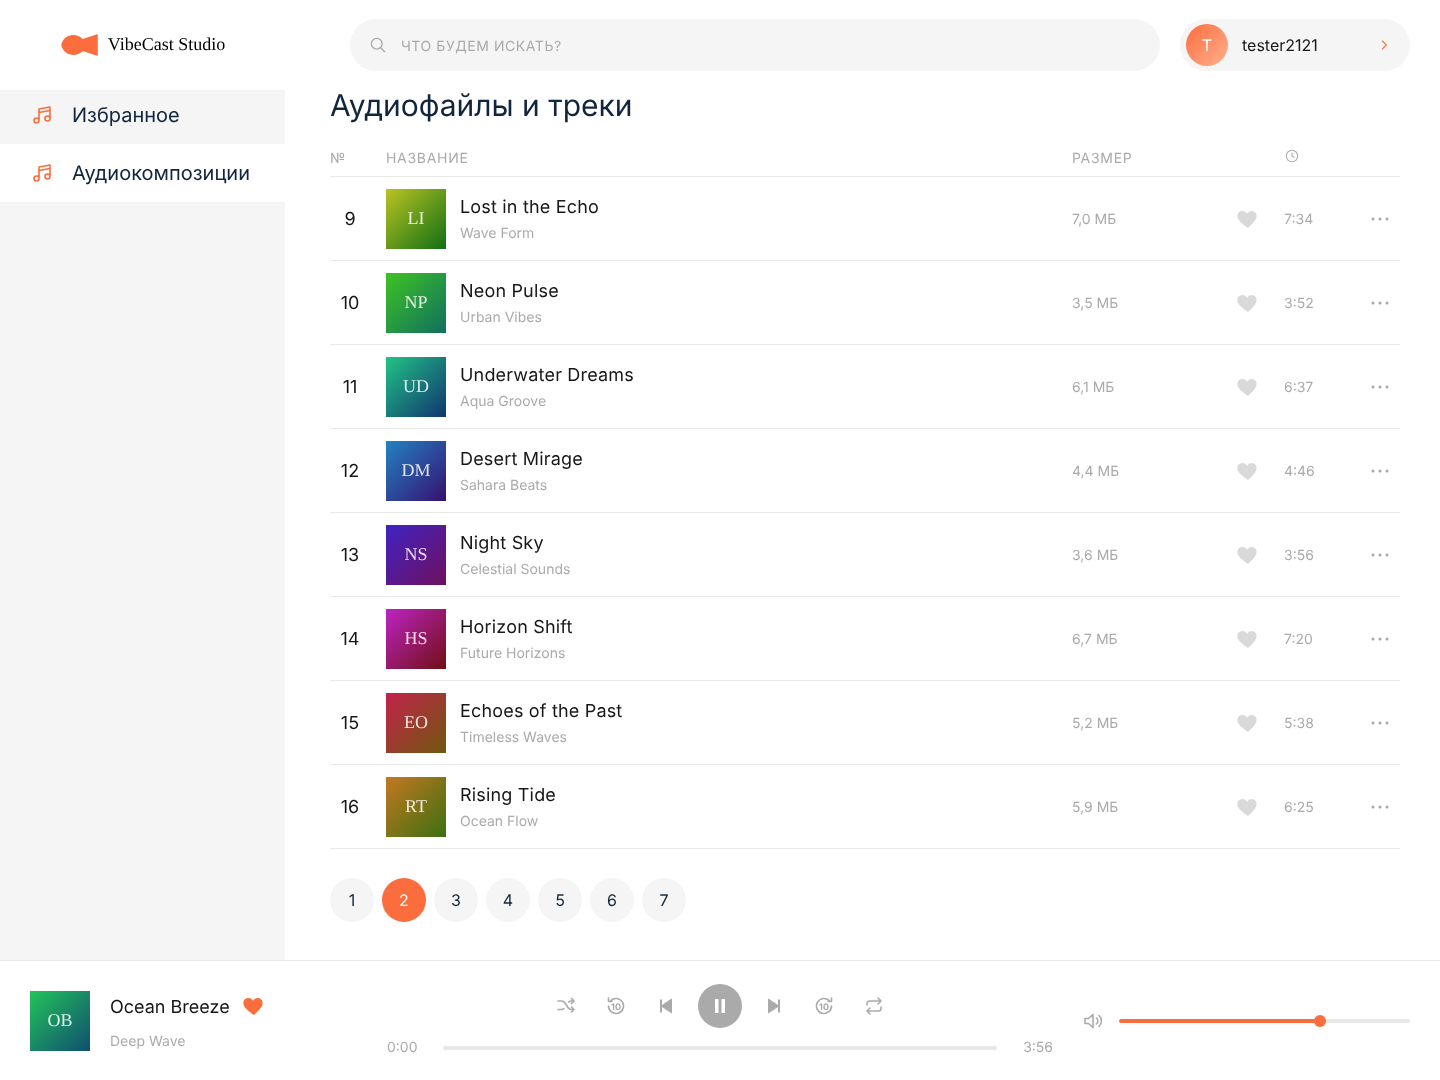
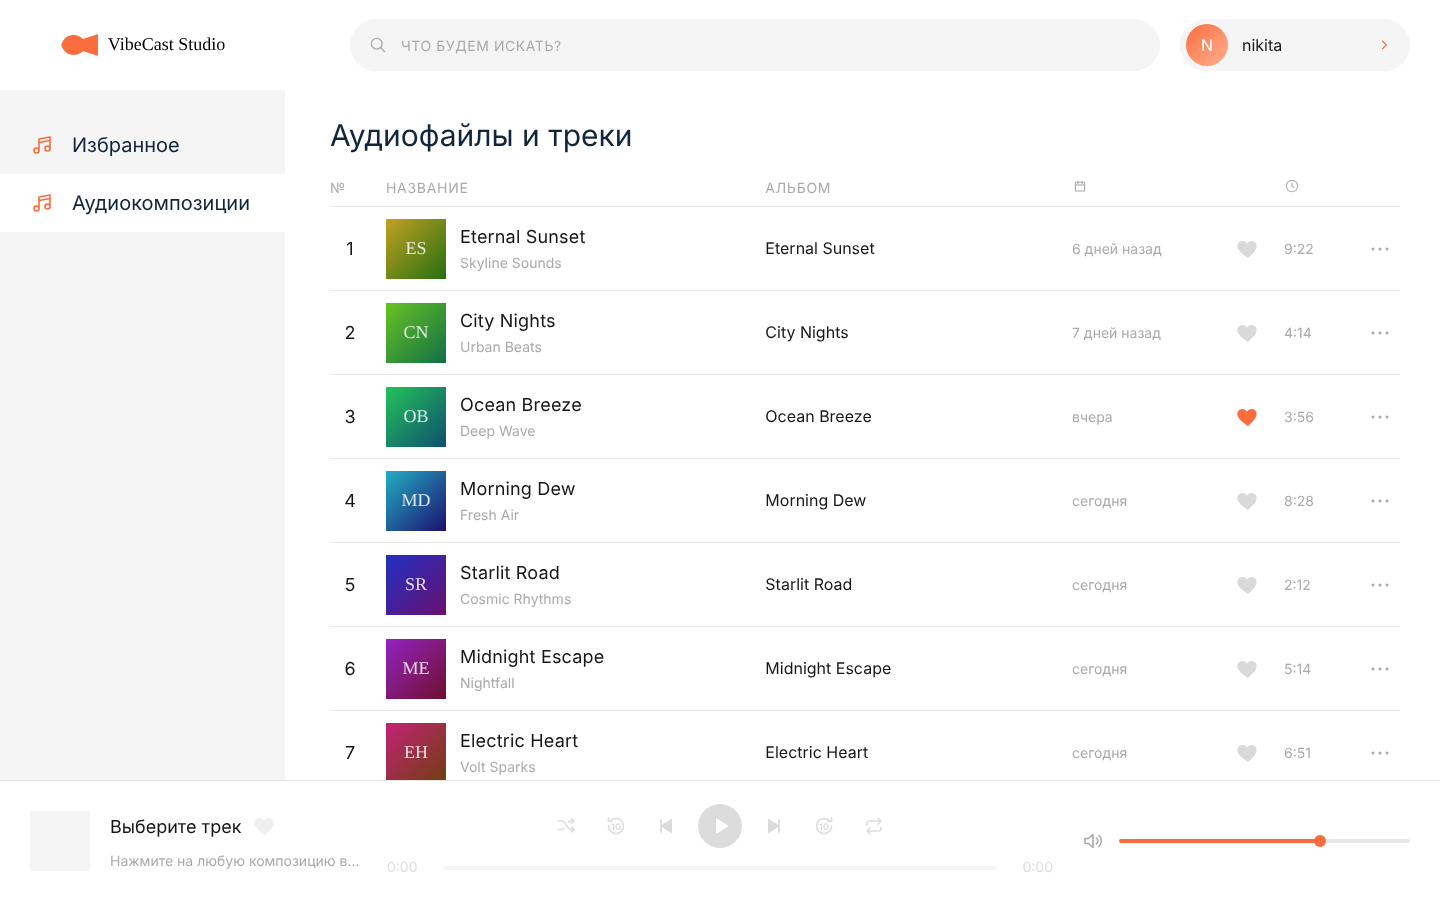
Колонки «Альбом» и «Дата добавления» как в макете, даты хранятся в localStorage

diff --git a/src/core/history.ts b/src/core/history.ts
@@ -1,0 +1,82 @@
+import { session } from './session';
+
+type DateMap = Record<string, number>;
+
+interface UserHistory {
+  /** Когда трек впервые появился в медиатеке пользователя. */
+  seen: DateMap;
+  /** Когда трек добавлен в избранное. */
+  favorites: DateMap;
+}
+
+const PREFIX = 'vibecast:history:';
+
+function isDateMap(value: unknown): value is DateMap {
+  return typeof value === 'object' && value !== null && Object.values(value).every((item) => typeof item === 'number');
+}
+
+/**
+ * Даты добавления треков. API их не отдаёт, поэтому клиент сам запоминает,
+ * когда трек появился у пользователя и когда попал в избранное.
+ * Данные хранятся в localStorage отдельно для каждого пользователя.
+ */
+class TrackHistory {
+  private cache: { user: string; data: UserHistory } | null = null;
+
+  /** Отмечает новые треки каталога датой первого появления. */
+  registerCatalog(ids: readonly number[], favoriteIds: readonly number[]): void {
+    const data = this.data();
+    if (!data) return;
+    const now = Date.now();
+    for (const id of ids) data.seen[id] ??= now;
+    // Избранное с сервера, для которого ещё нет даты (например, добавлено с другого устройства)
+    for (const id of favoriteIds) data.favorites[id] ??= data.seen[id] ?? now;
+    this.save();
+  }
+
+  setFavorite(id: number, favorite: boolean): void {
+    const data = this.data();
+    if (!data) return;
+    if (favorite) data.favorites[id] = Date.now();
+    else data.favorites = Object.fromEntries(Object.entries(data.favorites).filter(([key]) => key !== String(id)));
+    this.save();
+  }
+
+  /** Для избранного — дата добавления в избранное, для остальных — дата появления в медиатеке. */
+  addedAt(id: number, favorite: boolean): number | null {
+    const data = this.data();
+    if (!data) return null;
+    return (favorite ? data.favorites[id] : undefined) ?? data.seen[id] ?? null;
+  }
+
+  private data(): UserHistory | null {
+    const user = session.username;
+    if (!user) return null;
+    if (this.cache?.user !== user) this.cache = { user, data: this.read(user) };
+    return this.cache.data;
+  }
+
+  private read(user: string): UserHistory {
+    try {
+      const parsed: unknown = JSON.parse(localStorage.getItem(PREFIX + user) ?? 'null');
+      if (typeof parsed === 'object' && parsed !== null) {
+        const { seen, favorites } = parsed as Partial<UserHistory>;
+        if (isDateMap(seen) && isDateMap(favorites)) return { seen, favorites };
+      }
+    } catch {
+      // Повреждённые данные просто перезаписываем
+    }
+    return { seen: {}, favorites: {} };
+  }
+
+  private save(): void {
+    if (!this.cache) return;
+    try {
+      localStorage.setItem(PREFIX + this.cache.user, JSON.stringify(this.cache.data));
+    } catch {
+      // Переполненное хранилище не должно ломать плеер
+    }
+  }
+}
+
+export const history = new TrackHistory();

diff --git a/src/components/TrackRow.ts b/src/components/TrackRow.ts
@@ -5,7 +5,8 @@ import { icon } from './icons';
 import { openTrackCard } from './TrackCard';
 import { library } from '../core/library';
 import { player } from '../core/player';
-import { durationToSeconds, formatSize, formatTime } from '../utils/format';
+import { history } from '../core/history';
+import { durationToSeconds, formatAddedAt, formatTime } from '../utils/format';
 import type { Track } from '../types';
 
 export interface RowContext {
@@ -18,6 +19,7 @@ export class TrackRow {
   readonly el: HTMLElement;
   private readonly heart: HTMLButtonElement;
   private readonly number: HTMLElement;
+  private readonly added = el('span.track__added');
   private track: Track | null = null;
   private context: RowContext = { queue: [] };
 
@@ -59,6 +61,7 @@ export class TrackRow {
     this.heart.classList.toggle('track__heart--active', favorite);
     this.heart.setAttribute('aria-pressed', String(favorite));
     this.heart.setAttribute('aria-label', favorite ? 'Убрать из избранного' : 'Добавить в избранное');
+    this.added.textContent = formatAddedAt(history.addedAt(this.track.id, favorite));
 
     const current = player.current?.id === this.track.id;
     this.el.classList.toggle('track--current', current);
@@ -84,7 +87,9 @@ export class TrackRow {
         cover(track),
         el('div.track__info', el('span.track__title', track.title), el('span.track__artist', track.artist)),
       ),
-      el('span.track__size', formatSize(track.size_mb)),
+      // В API нет альбома: каждый трек выпущен синглом, поэтому альбом совпадает с названием
+      el('span.track__album', { title: track.title }, track.title),
+      this.added,
       this.heart,
       el('span.track__duration', formatTime(durationToSeconds(track.duration))),
       more,

diff --git a/src/core/library.ts b/src/core/library.ts
@@ -1,5 +1,6 @@
 import { favoritesApi, tracksApi } from '../api';
 import { Emitter } from './emitter';
+import { history } from './history';
 import type { Track } from '../types';
 
 interface LibraryEvents {
@@ -21,6 +22,7 @@ class Library extends Emitter<LibraryEvents> {
       .then(([tracks, favorites]) => {
         this.tracks = tracks;
         this.favoriteIds = new Set(favorites.map((track) => track.id));
+        history.registerCatalog(tracks.map((track) => track.id), [...this.favoriteIds]);
         this.emit('favorites', this.favoriteIds);
       })
       .catch((error: unknown) => {
@@ -53,6 +55,7 @@ class Library extends Emitter<LibraryEvents> {
     const wasFavorite = this.favoriteIds.has(id);
     if (wasFavorite) this.favoriteIds.delete(id);
     else this.favoriteIds.add(id);
+    history.setFavorite(id, !wasFavorite);
     this.emit('favorites', this.favoriteIds);
 
     try {
@@ -60,6 +63,7 @@ class Library extends Emitter<LibraryEvents> {
     } catch (error) {
       if (wasFavorite) this.favoriteIds.add(id);
       else this.favoriteIds.delete(id);
+      history.setFavorite(id, wasFavorite);
       this.emit('favorites', this.favoriteIds);
       this.emit('error', error instanceof Error ? error.message : 'Не удалось обновить избранное');
     }

diff --git a/src/utils/format.ts b/src/utils/format.ts
@@ -16,3 +16,23 @@ export function coverHue(id: number): number {
 export function formatSize(megabytes: number): string {
   return `${megabytes.toFixed(1).replace('.', ',')} МБ`;
 }
+
+function plural(count: number, forms: [string, string, string]): string {
+  const mod10 = count % 10;
+  const mod100 = count % 100;
+  if (mod10 === 1 && mod100 !== 11) return forms[0];
+  if (mod10 >= 2 && mod10 <= 4 && (mod100 < 12 || mod100 > 14)) return forms[1];
+  return forms[2];
+}
+
+const DAY = 24 * 60 * 60 * 1000;
+
+/** Относительная дата как в макете: «сегодня», «вчера», «6 дней назад». */
+export function formatAddedAt(timestamp: number | null, now = Date.now()): string {
+  if (timestamp === null) return '—';
+  const startOfToday = new Date(now).setHours(0, 0, 0, 0);
+  const days = Math.max(0, Math.ceil((startOfToday - timestamp) / DAY));
+  if (days === 0) return 'сегодня';
+  if (days === 1) return 'вчера';
+  return `${days} ${plural(days, ['день', 'дня', 'дней'])} назад`;
+}

diff --git a/src/styles/main.css b/src/styles/main.css
@@ -348,7 +348,7 @@ a {
 .tracks__head,
 .track {
   display: grid;
-  grid-template-columns: 40px minmax(0, 1fr) 140px 40px 60px 40px;
+  grid-template-columns: 40px minmax(0, 1.25fr) minmax(0, 1fr) 140px 40px 60px 40px;
   align-items: center;
   column-gap: 16px;
 }
@@ -420,8 +420,15 @@ a {
   letter-spacing: 0.01em;
 }
 
+.track__album {
+  overflow: hidden;
+  font-size: 16px;
+  white-space: nowrap;
+  text-overflow: ellipsis;
+}
+
 .track__artist,
-.track__size,
+.track__added,
 .track__duration {
   font-size: 14px;
   color: var(--muted);
@@ -1034,11 +1041,11 @@ a {
 
   .tracks__head,
   .track {
-    grid-template-columns: 32px minmax(0, 1fr) 40px 50px 40px;
+    grid-template-columns: 32px minmax(0, 1.4fr) minmax(0, 1fr) 40px 50px 40px;
   }
 
-  .track__size,
-  .tracks__head-size {
+  .track__added,
+  .tracks__head-added {
     display: none;
   }
 
@@ -1160,6 +1167,8 @@ a {
 
   .tracks__head,
   .track__number,
+  .track__album,
+  .track__added,
   .track__duration,
   .pager {
     display: none;

diff --git a/src/components/TrackList.ts b/src/components/TrackList.ts
@@ -34,7 +34,8 @@ export class TrackList {
         { 'aria-hidden': 'true' },
         el('span', '№'),
         el('span', 'Название'),
-        el('span.tracks__head-size', 'Размер'),
+        el('span.tracks__head-album', 'Альбом'),
+        el('span.tracks__head-added', { title: 'Дата добавления' }, icon('calendar', 'icon icon--small')),
         el('span'),
         el('span.tracks__head-time', icon('clock', 'icon icon--small')),
         el('span'),

diff --git a/README.md b/README.md
@@ -19,6 +19,7 @@
 - поиск по названию и исполнителю без лишних запросов к серверу;
 - избранное: сердечко в строке, в карточке трека и в плеере, состояние синхронизировано везде;
 - карточка трека с длительностью, размером и действиями;
+- колонки как в макете: альбом и дата добавления;
 - профиль с аватаром-заглушкой и статистикой избранного;
 - регистрация и вход с проверкой полей, автоматический выход при истёкшем токене.
 
@@ -37,6 +38,7 @@ src/
 ├── api/            # запросы к серверу: обёртка над fetch и методы API
 ├── core/           # состояние без привязки к интерфейсу
 │   ├── session.ts  #   токен и имя пользователя
+│   ├── history.ts  #   даты добавления треков в localStorage
 │   ├── library.ts  #   кэш треков и избранного
 │   ├── player.ts   #   очередь, воспроизведение, режимы
 │   ├── router.ts   #   hash-роутер
@@ -56,7 +58,12 @@ src/
 
 **Звук.** Учебный API вместо аудиофайлов отдаёт текстовую заглушку (`encoded_audio`). Чтобы плеер работал по-настоящему, для каждого трека на клиенте генерируется своя мелодия ровно той длительности, что указана в API. Файл создаётся при первом запуске трека и кэшируется.
 
-**Отличия от макета.** API не отдаёт обложки, альбом и дату добавления. Обложки заменены градиентными заглушками с инициалами трека (цвет стабилен для каждого трека), а вместо колонок «Альбом» и «Дата» показан размер файла.
+**Данные, которых нет в API.** Сервер не отдаёт обложки, альбом и дату добавления, а в макете они есть. Колонки сохранены, данные для них берутся так:
+- обложка — градиентная заглушка с инициалами трека, цвет у каждого трека свой и не меняется;
+- альбом — трек считается синглом, поэтому альбом совпадает с названием;
+- дата — клиент сам запоминает в `localStorage` (отдельно для каждого пользователя), когда трек появился в медиатеке и когда попал в избранное, и показывает её как в макете: «сегодня», «вчера», «6 дней назад».
+
+Размер файла показан в карточке трека.
 
 ## Запуск
 
